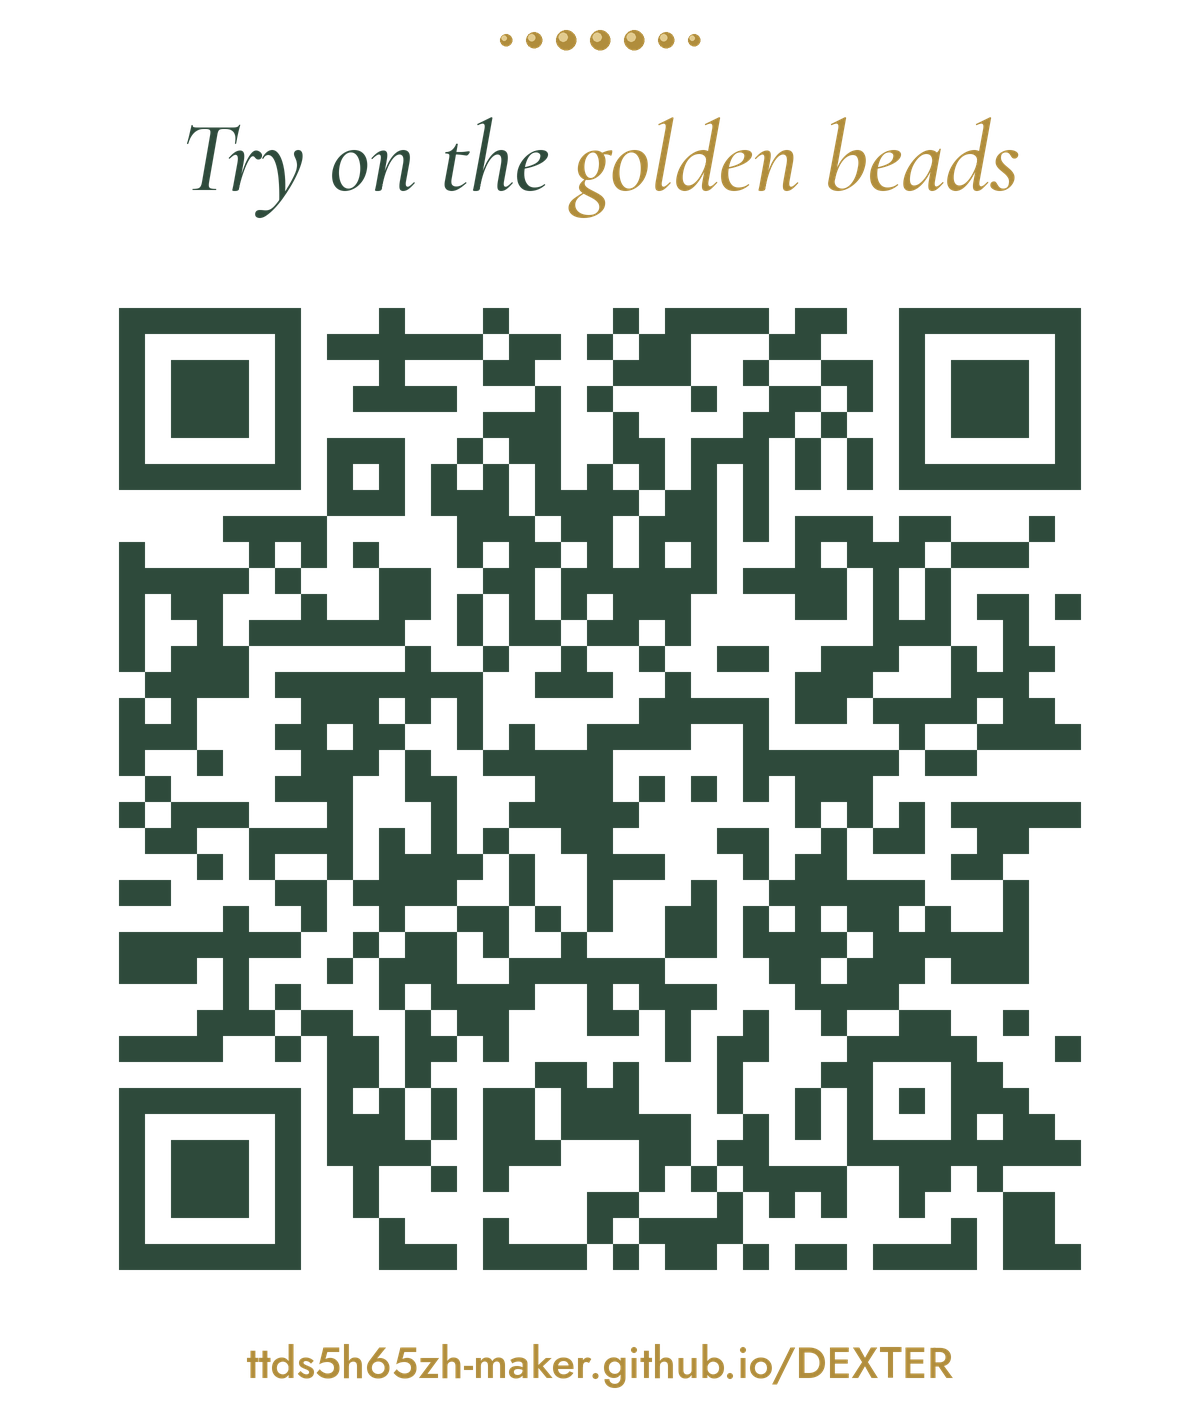
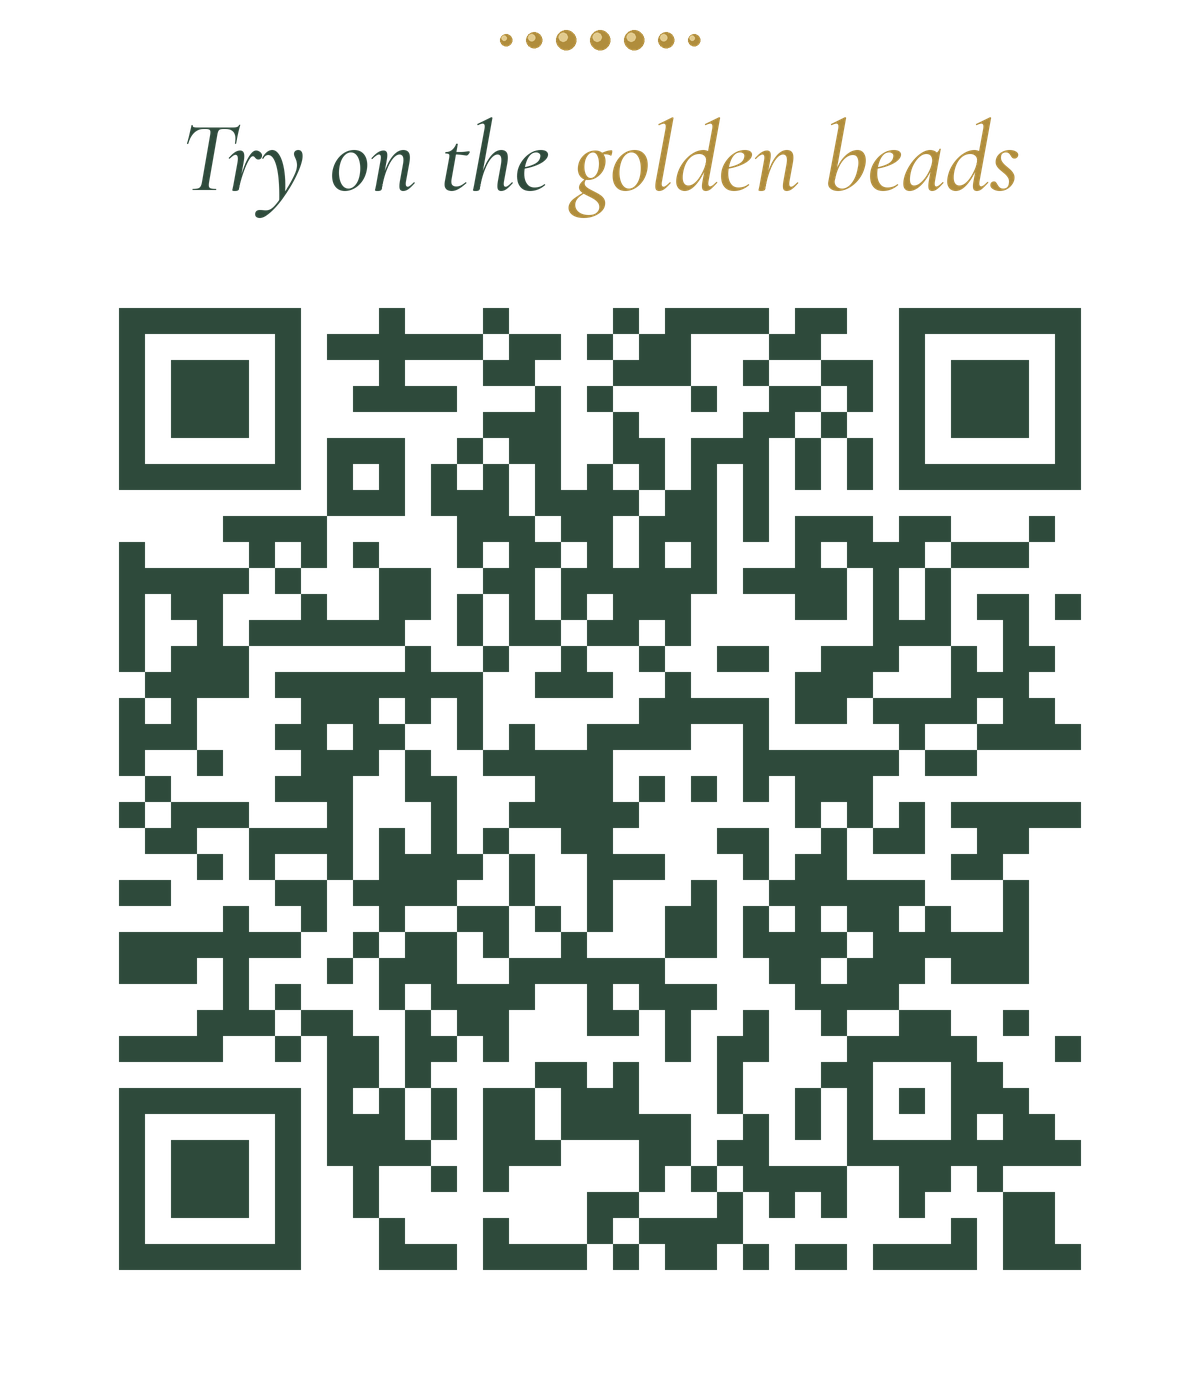
Remove the link line from the slide QR
Keeps a standard 4-module clear space under the code. Use --with-url
to bring the link back.

Claude-Session: https://claude.ai/code/session_01Vm2NQHsk9ZoxxTVJUKcL9W

diff --git a/tools/make_qr_slide.py b/tools/make_qr_slide.py
@@ -1,13 +1,13 @@
 """Generate the slide-ready QR code: qr/qr-slide.png and qr/qr-slide.svg.
 
-Transparent background (the slide shows through), deep green code, a row of gold
-beads and the line "Try on the golden beads" above it, and the URL in gold below,
-matching the deck: deep green #2E4A3B, muted gold #B08D3C.
+Transparent background (the slide shows through), deep green code, and a row of gold
+beads and the line "Try on the golden beads" above it, matching the deck:
+deep green #2E4A3B, muted gold #B08D3C. Add --with-url to print the URL in gold below.
 The SVG text is converted to outlines, so it looks right even where the fonts
 aren't installed.
 
 Usage (needs segno, Pillow and fonttools in a virtualenv, plus two TTF fonts):
-    python3 tools/make_qr_slide.py URL CormorantGaramond-Italic.ttf Jost.ttf
+    python3 tools/make_qr_slide.py URL CormorantGaramond-Italic.ttf Jost.ttf [--with-url]
 """
 import sys
 from pathlib import Path
@@ -21,9 +21,11 @@ GREEN = "#2E4A3B"
 GOLD = "#B08D3C"
 GOLD_LIGHT = "#E2CB8E"
 
-if len(sys.argv) < 4:
+args = [a for a in sys.argv[1:] if not a.startswith("--")]
+WITH_URL = "--with-url" in sys.argv
+if len(args) < 3:
     sys.exit(__doc__)
-url, serif_path, sans_path = sys.argv[1:4]
+url, serif_path, sans_path = args[:3]
 label = url.removeprefix("https://").removesuffix("/")
 out = Path(__file__).resolve().parent.parent / "qr"
 out.mkdir(exist_ok=True)
@@ -45,7 +47,7 @@ HEAD_PARTS = [("Try on the ", GREEN), ("golden beads", GOLD)]
 CODE_Y = HEAD_BASELINE + 40 + 3 * MOD   # 3 modules of clear space under the line
 URL_SIZE = 44
 URL_BASELINE = CODE_Y + CODE + 3 * MOD + 30
-H = URL_BASELINE + 40
+H = URL_BASELINE + 40 if WITH_URL else CODE_Y + CODE + 4 * MOD  # standard 4-module clear space below
 CODE_X = (W - CODE) // 2
 
 
@@ -81,8 +83,9 @@ for r, row in enumerate(matrix):
             x0, y0 = (CODE_X + c * MOD) * S, (CODE_Y + r * MOD) * S
             draw.rectangle([x0, y0, x0 + MOD * S - 1, y0 + MOD * S - 1], fill=GREEN)
 
-url_font = ImageFont.truetype(sans_path, URL_SIZE * S)
-draw.text((W * S / 2, URL_BASELINE * S), label, font=url_font, fill=GOLD, anchor="ms")
+if WITH_URL:
+    url_font = ImageFont.truetype(sans_path, URL_SIZE * S)
+    draw.text((W * S / 2, URL_BASELINE * S), label, font=url_font, fill=GOLD, anchor="ms")
 
 img.resize((W, H), Image.LANCZOS).save(out / "qr-slide.png")
 
@@ -132,7 +135,8 @@ code_path = "".join(
     for r, row in enumerate(matrix) for c, dark in enumerate(row) if dark
 )
 svg.append(f'<path d="{code_path}" fill="{GREEN}" shape-rendering="crispEdges"/>')
-svg.append(text_paths(sans_path, label, URL_SIZE, W / 2, URL_BASELINE, GOLD, align="center")[0])
+if WITH_URL:
+    svg.append(text_paths(sans_path, label, URL_SIZE, W / 2, URL_BASELINE, GOLD, align="center")[0])
 svg.append("</svg>")
 (out / "qr-slide.svg").write_text("\n".join(svg) + "\n", encoding="utf-8")
 print(f"Slide QR for {url}: {W}x{H}px, version {qr.version}, error level {qr.error} -> {out}")

diff --git a/README.md b/README.md
@@ -52,7 +52,7 @@ js/browse.js           "Browse without camera" product-shot turntable
 vendor/                three.js (MIT), MediaPipe tasks-vision + WASM (Apache-2.0)
 models/                hand_landmarker.task (Apache-2.0, Google MediaPipe)
 fonts/                 Cormorant Garamond, Jost (SIL Open Font License)
-qr/                    qr.png / qr.svg (ivory), qr-slide.png / qr-slide.svg (transparent, with headline)
+qr/                    qr.png / qr.svg (ivory), qr-slide.png / qr-slide.svg (transparent, headline, no link)
 tools/make_qr.py       regenerates the plain QR code for a given URL
 tools/make_qr_slide.py regenerates the transparent slide version (needs fonttools + two TTF fonts)
 ```
